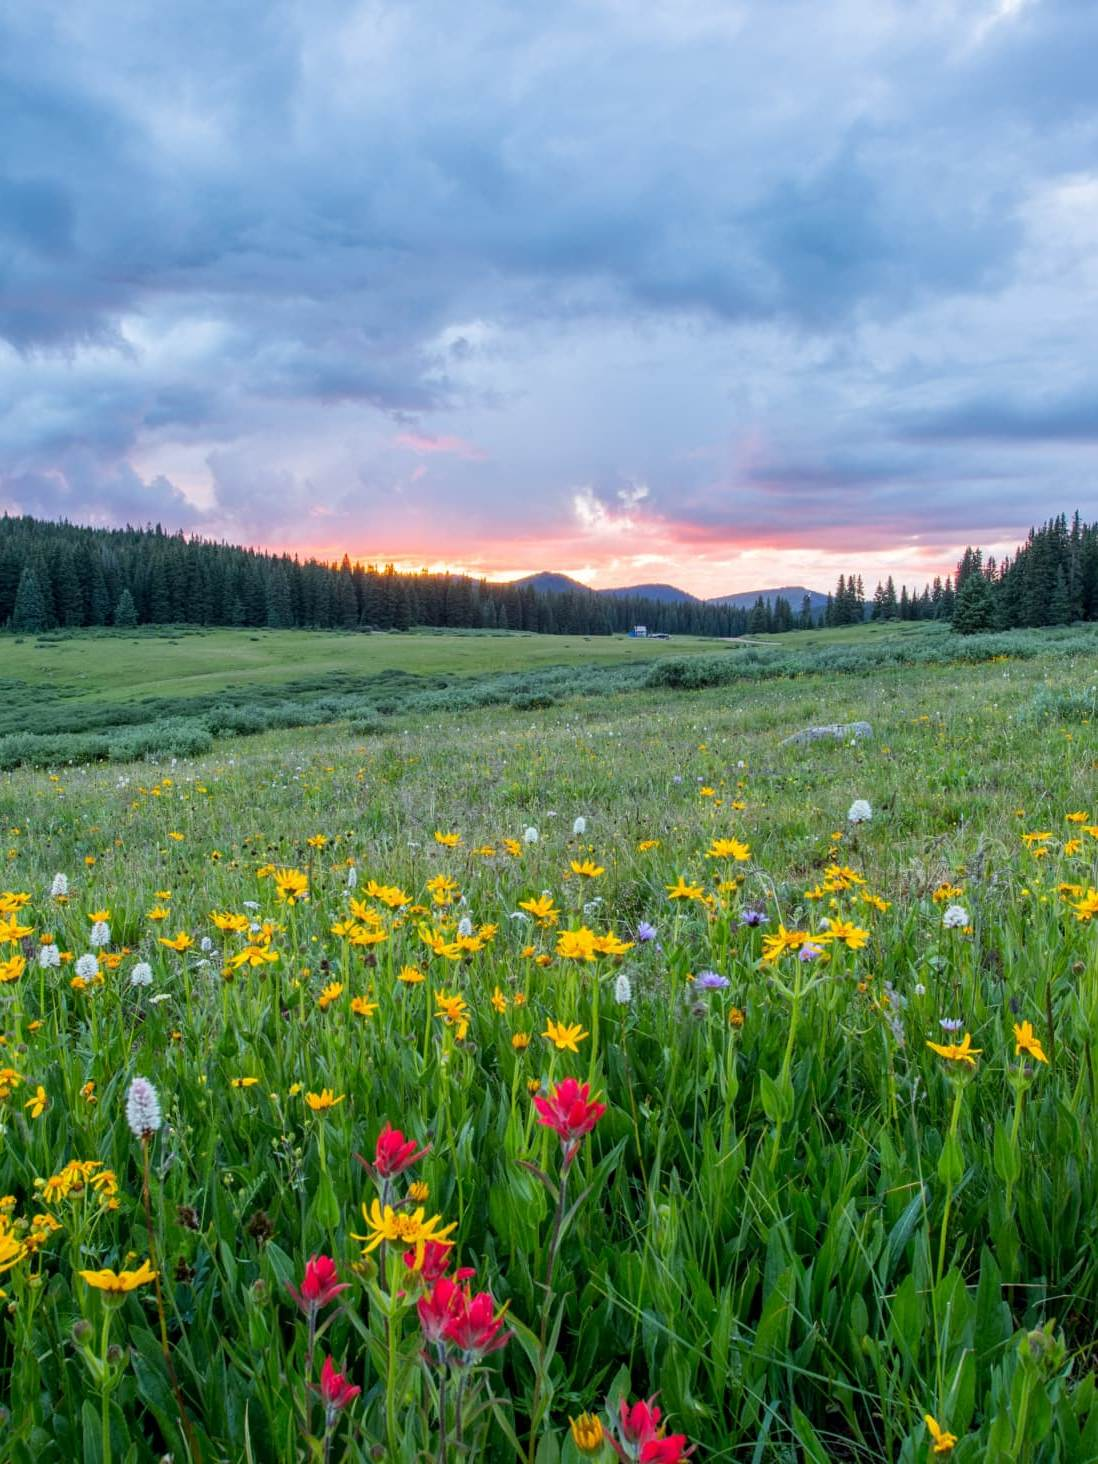
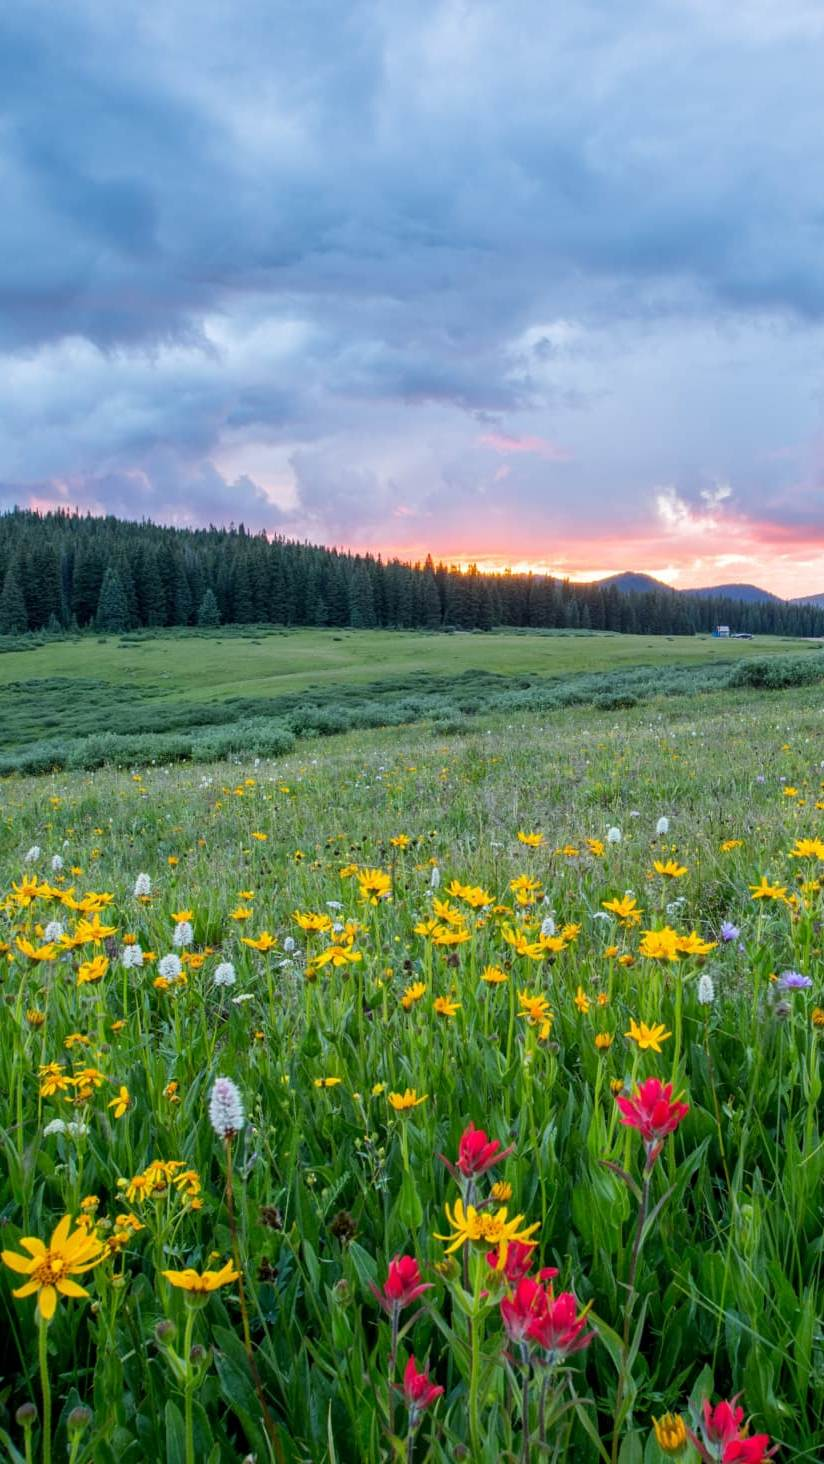
fix adaptive

diff --git a/src/partials/gallery/slick-caroucel.html b/src/partials/gallery/slick-caroucel.html
@@ -4,148 +4,284 @@
   data-aos-offset="100"
   data-aos-easing="cubic-bezier(0.4, 0, 0.2, 1)"
 >
-<!-- 1 -->
+  <!-- 1 -->
   <div class="gallery-item">
     <a
       class="prw-image"
-      data-media="(max-width: 767px);(min-width: 768px)"
-      data-sources="/mountain-tours/mob-gallerygal@2x.jpg;/mountain-tours/dsk-gallerygal@2x.jpg"
+      data-media="(max-width: 767px);(max-width: 1439px) and (min-width: 768px);(min-width:1440px)"
+      data-sources="/mountain-tours/mob-gallerygal@2x.jpg;/mountain-tours/tab-gallerygal@2x.jpg;/mountain-tours/dsk-gallerygal@2x.jpg"
       href="/mountain-tours/dsk-gallerygal@2x.jpg"
       data-fancybox="gallery"
-
     >
-    <picture>
-      <source media="(max-width: 767px)" srcset="./img/photos/gallery/sm-mob/gallerymob-4.jpg 1x, ./img/photos/gallery/sm-mob/gallerymob@2x-4.jpg 1x" />
-      <source media="(max-width: 1439px) and (min-width: 768px)" srcset="./img/photos/gallery/sm-tabl/gallerytabl-4.jpg 1x, ./img/photos/gallery/sm-tabl/gallerytabl@2x-4.jpg 2x" />
-      <source media="(min-width: 1440px)" srcset="./img/photos/gallery/sm-dsk/gallerygal-4.jpg" />
-      <img src="./img/photos/gallery/sm-dsk/gallerygal-4.jpg" alt="gallery photo item" />
-    </picture>
-
+      <picture>
+        <source
+          media="(max-width: 767px)"
+          srcset="
+            ./img/photos/gallery/sm-mob/gallerymob-4.jpg    1x,
+            ./img/photos/gallery/sm-mob/gallerymob@2x-4.jpg 1x
+          "
+        />
+        <source
+          media="(max-width: 1439px) and (min-width: 768px)"
+          srcset="
+            ./img/photos/gallery/sm-tabl/gallerytabl-4.jpg    1x,
+            ./img/photos/gallery/sm-tabl/gallerytabl@2x-4.jpg 2x
+          "
+        />
+        <source
+          media="(min-width: 1440px)"
+          srcset="./img/photos/gallery/sm-dsk/gallerygal-4.jpg"
+        />
+        <img
+          src="./img/photos/gallery/sm-dsk/gallerygal-4.jpg"
+          alt="gallery photo item"
+        />
+      </picture>
     </a>
   </div>
-<!-- 2 -->
-<div class="gallery-item">
+  <!-- 2 -->
+  <div class="gallery-item">
     <a
       class="prw-image"
-      data-media="(max-width: 767px);(min-width: 768px)"
-      data-sources="/mountain-tours/mob-gallerygal@2x-1.jpg;/mountain-tours/dsk-gallerygal@2x-1.jpg"
+      data-media="(max-width: 767px);(max-width: 1439px) and (min-width: 768px);(min-width:1440px)"
+      data-sources="/mountain-tours/mob-gallerygal@2x-1.jpg;/mountain-tours/tab-gallerygal@2x-1.jpg;/mountain-tours/dsk-gallerygal@2x-1.jpg"
       href="/mountain-tours/dsk-gallerygal@2x-1.jpg"
       data-fancybox="gallery"
     >
-    <picture>
-      <source media="(max-width: 767px)"  srcset="./img/photos/gallery/sm-mob/gallerymob-5.jpg 1x, ./img/photos/gallery/sm-mob/gallerymob@2x-5.jpg 1x" />
-      <source media="(max-width: 1439px) and (min-width: 768px)" srcset="./img/photos/gallery/sm-tabl/gallerytabl-5.jpg 1x, ./img/photos/gallery/sm-tabl/gallerytabl@2x-5.jpg 2x" />
-      <source media="(min-width: 1440px)" srcset="./img/photos/gallery/sm-dsk/gallerygal-5.jpg" />
-      <img src="./img/photos/gallery/sm-dsk/gallerygal-5.jpg" alt="gallery photo item" />
-    </picture>
-
+      <picture>
+        <source
+          media="(max-width: 767px)"
+          srcset="
+            ./img/photos/gallery/sm-mob/gallerymob-5.jpg    1x,
+            ./img/photos/gallery/sm-mob/gallerymob@2x-5.jpg 1x
+          "
+        />
+        <source
+          media="(max-width: 1439px) and (min-width: 768px)"
+          srcset="
+            ./img/photos/gallery/sm-tabl/gallerytabl-5.jpg    1x,
+            ./img/photos/gallery/sm-tabl/gallerytabl@2x-5.jpg 2x
+          "
+        />
+        <source
+          media="(min-width: 1440px)"
+          srcset="./img/photos/gallery/sm-dsk/gallerygal-5.jpg"
+        />
+        <img
+          src="./img/photos/gallery/sm-dsk/gallerygal-5.jpg"
+          alt="gallery photo item"
+        />
+      </picture>
     </a>
   </div>
-<!-- 3 -->
+  <!-- 3 -->
   <div class="gallery-item">
     <a
       class="prw-image"
-      data-media="(max-width: 767px);(min-width: 768px)"
-      data-sources="/mountain-tours/mob-gallerygal@2x-2.jpg;/mountain-tours/dsk-gallerygal@2x-2.jpg"
+      data-media="(max-width: 767px);(max-width: 1439px) and (min-width: 768px);(min-width:1440px)"
+      data-sources="/mountain-tours/mob-gallerygal@2x-2.jpg;/mountain-tours/tab-gallerygal@2x-2.jpg;/mountain-tours/dsk-gallerygal@2x-2.jpg"
       href="/mountain-tours/dsk-gallerygal@2x-2.jpg"
       data-fancybox="gallery"
     >
-    <picture>
-      <source media="(max-width: 767px)" srcset="./img/photos/gallery/sm-mob/gallerymob-7.jpg 1x, ./img/photos/gallery/sm-mob/gallerymob@2x-7.jpg 1x" />
-      <source media="(max-width: 1439px) and (min-width: 768px)" srcset="./img/photos/gallery/sm-tabl/gallerytabl-7.jpg 1x, ./img/photos/gallery/sm-tabl/gallerytabl@2x-7.jpg 2x" />
-      <source media="(min-width: 1440px)" srcset="./img/photos/gallery/sm-dsk/gallerygal-7.jpg" />
-      <img src="./img/photos/gallery/sm-dsk/gallerygal-7.jpg" alt="gallery photo item" />
-    </picture>
-
+      <picture>
+        <source
+          media="(max-width: 767px)"
+          srcset="
+            ./img/photos/gallery/sm-mob/gallerymob-7.jpg    1x,
+            ./img/photos/gallery/sm-mob/gallerymob@2x-7.jpg 1x
+          "
+        />
+        <source
+          media="(max-width: 1439px) and (min-width: 768px)"
+          srcset="
+            ./img/photos/gallery/sm-tabl/gallerytabl-7.jpg    1x,
+            ./img/photos/gallery/sm-tabl/gallerytabl@2x-7.jpg 2x
+          "
+        />
+        <source
+          media="(min-width: 1440px)"
+          srcset="./img/photos/gallery/sm-dsk/gallerygal-7.jpg"
+        />
+        <img
+          src="./img/photos/gallery/sm-dsk/gallerygal-7.jpg"
+          alt="gallery photo item"
+        />
+      </picture>
     </a>
   </div>
   <!-- 4 -->
   <div class="gallery-item">
     <a
       class="prw-image"
-      data-media="(max-width: 767px);(min-width: 768px)"
-      data-sources="/mountain-tours/mob-gallerygal@2x-3.jpg;/mountain-tours/dsk-gallerygal@2x-3.jpg"
+      data-media="(max-width: 767px);(max-width: 1439px) and (min-width: 768px);(min-width:1440px)"
+      data-sources="/mountain-tours/mob-gallerygal@2x-3.jpg;/mountain-tours/tab-gallerygal@2x-3.jpg;/mountain-tours/dsk-gallerygal@2x-3.jpg"
       href="/mountain-tours/dsk-gallerygal@2x-3.jpg"
       data-fancybox="gallery"
     >
-    <picture>
-      <source media="(max-width: 767px)" srcset="./img/photos/gallery/sm-mob/gallerymob-6.jpg 1x, ./img/photos/gallery/sm-mob/gallerymob@2x-6.jpg 1x" />
-      <source media="(max-width: 1439px) and (min-width: 768px)" srcset="./img/photos/gallery/sm-tabl/gallerytabl-6.jpg 1x, ./img/photos/gallery/sm-tabl/gallerytabl@2x-6.jpg 2x" />
-      <source media="(min-width: 1440px)" srcset="./img/photos/gallery/sm-dsk/gallerygal-6.jpg" />
-      <img src="./img/photos/gallery/sm-dsk/gallerygal-6.jpg" alt="gallery photo item" />
-    </picture>
+      <picture>
+        <source
+          media="(max-width: 767px)"
+          srcset="
+            ./img/photos/gallery/sm-mob/gallerymob-6.jpg    1x,
+            ./img/photos/gallery/sm-mob/gallerymob@2x-6.jpg 1x
+          "
+        />
+        <source
+          media="(max-width: 1439px) and (min-width: 768px)"
+          srcset="
+            ./img/photos/gallery/sm-tabl/gallerytabl-6.jpg    1x,
+            ./img/photos/gallery/sm-tabl/gallerytabl@2x-6.jpg 2x
+          "
+        />
+        <source
+          media="(min-width: 1440px)"
+          srcset="./img/photos/gallery/sm-dsk/gallerygal-6.jpg"
+        />
+        <img
+          src="./img/photos/gallery/sm-dsk/gallerygal-6.jpg"
+          alt="gallery photo item"
+        />
+      </picture>
     </a>
   </div>
   <!-- 5 -->
   <div class="gallery-item">
     <a
       class="prw-image"
-      data-media="(max-width: 767px);(min-width: 768px)"
-      data-sources="/mountain-tours/mob-gallerygal@2x-4.jpg;/mountain-tours/dsk-gallerygal@2x-4.jpg"
+      data-media="(max-width: 767px);(max-width: 1439px) and (min-width: 768px);(min-width:1440px)"
+      data-sources="/mountain-tours/mob-gallerygal@2x-4.jpg;/mountain-tours/tab-gallerygal@2x-4.jpg;/mountain-tours/dsk-gallerygal@2x-4.jpg"
       href="/mountain-tours/dsk-gallerygal@2x-4.jpg"
       data-fancybox="gallery"
     >
-    <picture>
-      <source media="(max-width: 767px)" srcset="./img/photos/gallery/sm-mob/gallerymob-1.jpg 1x, ./img/photos/gallery/sm-mob/gallerymob@2x-1.jpg 1x" />
-      <source media="(max-width: 1439px) and (min-width: 768px)" srcset="./img/photos/gallery/sm-tabl/gallerytabl-1.jpg 1x, ./img/photos/gallery/sm-tabl/gallerytabl@2x-1.jpg 2x" />
-      <source media="(min-width: 1440px)" srcset="./img/photos/gallery/sm-dsk/gallerygal-1.jpg" />
-      <img src="./img/photos/gallery/sm-dsk/gallerygal-1.jpg" alt="gallery photo item" />
-    </picture>
- 
+      <picture>
+        <source
+          media="(max-width: 767px)"
+          srcset="
+            ./img/photos/gallery/sm-mob/gallerymob-1.jpg    1x,
+            ./img/photos/gallery/sm-mob/gallerymob@2x-1.jpg 1x
+          "
+        />
+        <source
+          media="(max-width: 1439px) and (min-width: 768px)"
+          srcset="
+            ./img/photos/gallery/sm-tabl/gallerytabl-1.jpg    1x,
+            ./img/photos/gallery/sm-tabl/gallerytabl@2x-1.jpg 2x
+          "
+        />
+        <source
+          media="(min-width: 1440px)"
+          srcset="./img/photos/gallery/sm-dsk/gallerygal-1.jpg"
+        />
+        <img
+          src="./img/photos/gallery/sm-dsk/gallerygal-1.jpg"
+          alt="gallery photo item"
+        />
+      </picture>
     </a>
   </div>
   <!-- 6 -->
   <div class="gallery-item">
     <a
       class="prw-image"
-      data-media="(max-width: 767px);(min-width: 768px)"
-      data-sources="/mountain-tours/mob-gallerygal@2x-5.jpg;/mountain-tours/dsk-gallerygal@2x-5.jpg"
+      data-media="(max-width: 767px);(max-width: 1439px) and (min-width: 768px);(min-width:1440px)"
+      data-sources="/mountain-tours/mob-gallerygal@2x-5.jpg;/mountain-tours/tab-gallerygal@2x-5.jpg;/mountain-tours/dsk-gallerygal@2x-5.jpg"
       href="/mountain-tours/dsk-gallerygal@2x-5.jpg"
       data-fancybox="gallery"
     >
-    <picture>
-      <source media="(max-width: 767px)" srcset="./img/photos/gallery/sm-mob/gallerymob.jpg 1x, ./img/photos/gallery/sm-mob/gallerymob@2x.jpg 1x" />
-      <source media="(max-width: 1439px) and (min-width: 768px)" srcset="./img/photos/gallery/sm-tabl/gallerytabl.jpg 1x, ./img/photos/gallery/sm-tabl/gallerytabl@2x.jpg 2x" />
-      <source media="(min-width: 1440px)" srcset="./img/photos/gallery/sm-dsk/gallerygal.jpg" />
-      <img src="./img/photos/gallery/sm-dsk/gallerygal.jpg" alt="gallery photo item" />
-    </picture>
-    
+      <picture>
+        <source
+          media="(max-width: 767px)"
+          srcset="
+            ./img/photos/gallery/sm-mob/gallerymob.jpg    1x,
+            ./img/photos/gallery/sm-mob/gallerymob@2x.jpg 1x
+          "
+        />
+        <source
+          media="(max-width: 1439px) and (min-width: 768px)"
+          srcset="
+            ./img/photos/gallery/sm-tabl/gallerytabl.jpg    1x,
+            ./img/photos/gallery/sm-tabl/gallerytabl@2x.jpg 2x
+          "
+        />
+        <source
+          media="(min-width: 1440px)"
+          srcset="./img/photos/gallery/sm-dsk/gallerygal.jpg"
+        />
+        <img
+          src="./img/photos/gallery/sm-dsk/gallerygal.jpg"
+          alt="gallery photo item"
+        />
+      </picture>
     </a>
   </div>
   <!-- 7 -->
   <div class="gallery-item">
     <a
       class="prw-image"
-      data-media="(max-width: 767px);(min-width: 768px)"
-      data-sources="/mountain-tours/mob-gallerygal@2x-6.jpg;/mountain-tours/dsk-gallerygal@2x-6.jpg"
+      data-media="(max-width: 767px);(max-width: 1439px) and (min-width: 768px);(min-width:1440px)"
+      data-sources="/mountain-tours/mob-gallerygal@2x-6.jpg;/mountain-tours/tab-gallerygal@2x-6.jpg;/mountain-tours/dsk-gallerygal@2x-6.jpg"
       href="/mountain-tours/dsk-gallerygal@2x-6.jpg"
       data-fancybox="gallery"
     >
-    <picture>
-      <source media="(max-width: 767px)" srcset="./img/photos/gallery/sm-mob/gallerymob-2.jpg 1x, ./img/photos/gallery/sm-mob/gallerymob@2x-2.jpg 1x" />
-      <source media="(max-width: 1439px) and (min-width: 768px)" srcset="./img/photos/gallery/sm-tabl/gallerytabl-2.jpg 1x, ./img/photos/gallery/sm-tabl/gallerytabl@2x-2.jpg 2x" />
-      <source media="(min-width: 1440px)" srcset="./img/photos/gallery/sm-dsk/gallerygal-2.jpg" />
-      <img src="./img/photos/gallery/sm-dsk/gallerygal-2.jpg" alt="gallery photo item" />
-    </picture>
-    
+      <picture>
+        <source
+          media="(max-width: 767px)"
+          srcset="
+            ./img/photos/gallery/sm-mob/gallerymob-2.jpg    1x,
+            ./img/photos/gallery/sm-mob/gallerymob@2x-2.jpg 1x
+          "
+        />
+        <source
+          media="(max-width: 1439px)  and (min-width: 768px)"
+          srcset="
+            ./img/photos/gallery/sm-tabl/gallerytabl-2.jpg    1x,
+            ./img/photos/gallery/sm-tabl/gallerytabl@2x-2.jpg 2x
+          "
+        />
+        <source
+          media="(min-width: 1440px)"
+          srcset="./img/photos/gallery/sm-dsk/gallerygal-2.jpg"
+        />
+        <img
+          src="./img/photos/gallery/sm-dsk/gallerygal-2.jpg"
+          alt="gallery photo item"
+        />
+      </picture>
     </a>
   </div>
   <!-- 8 -->
   <div class="gallery-item">
     <a
       class="prw-image"
-      data-media="(max-width: 767px);(min-width: 768px)"
-      data-sources="/mountain-tours/mob-gallerygal@2x-7.jpg;/mountain-tours/dsk-gallerygal@2x-7.jpg"
+      data-media="(max-width: 767px);(max-width: 1439px) and (min-width: 768px);(min-width:1440px)"
+      data-sources="/mountain-tours/mob-gallerygal@2x-7.jpg;/mountain-tours/tab-gallerygal@2x-7.jpg;/mountain-tours/dsk-gallerygal@2x-7.jpg"
       href="/mountain-tours/dsk-gallerygal@2x-7.jpg"
       data-fancybox="gallery"
     >
-    <picture>
-      <source media="(max-width: 767px)" srcset="./img/photos/gallery/sm-mob/gallerymob-3.jpg 1x, ./img/photos/gallery/sm-mob/gallerymob@2x-3.jpg 1x" />
-      <source media="(max-width: 1439px) and (min-width: 768px)" srcset="./img/photos/gallery/sm-tabl/gallerytabl-3.jpg 1x, ./img/photos/gallery/sm-tabl/gallerytabl@2x-3.jpg 2x" />
-      <source media="(min-width: 1440px)" srcset="./img/photos/gallery/sm-dsk/gallerygal-3.jpg" />
-      <img src="./img/photos/gallery/sm-dsk/gallerygal-3.jpg" alt="gallery photo item" />
-    </picture>
-    
+      <picture>
+        <source
+          media="(max-width: 767px)"
+          srcset="
+            ./img/photos/gallery/sm-mob/gallerymob-3.jpg    1x,
+            ./img/photos/gallery/sm-mob/gallerymob@2x-3.jpg 1x
+          "
+        />
+        <source
+          media="(max-width: 1439px)  and (min-width: 768px)"
+          srcset="
+            ./img/photos/gallery/sm-tabl/gallerytabl-3.jpg    1x,
+            ./img/photos/gallery/sm-tabl/gallerytabl@2x-3.jpg 2x
+          "
+        />
+        <source
+          media="(min-width: 1440px)"
+          srcset="./img/photos/gallery/sm-dsk/gallerygal-3.jpg"
+        />
+        <img
+          src="./img/photos/gallery/sm-dsk/gallerygal-3.jpg"
+          alt="gallery photo item"
+        />
+      </picture>
     </a>
   </div>
 </div>
@@ -175,5 +311,3 @@
     </svg>
   </div>
 </div>
-
-

diff --git a/src/css/gallery.css b/src/css/gallery.css
@@ -7,7 +7,7 @@
   display: flex;
   flex-direction: column;
   margin: 0 auto;
-  width: 100vw;
+  width: 330px;
 }
 
 .gallery-item {
